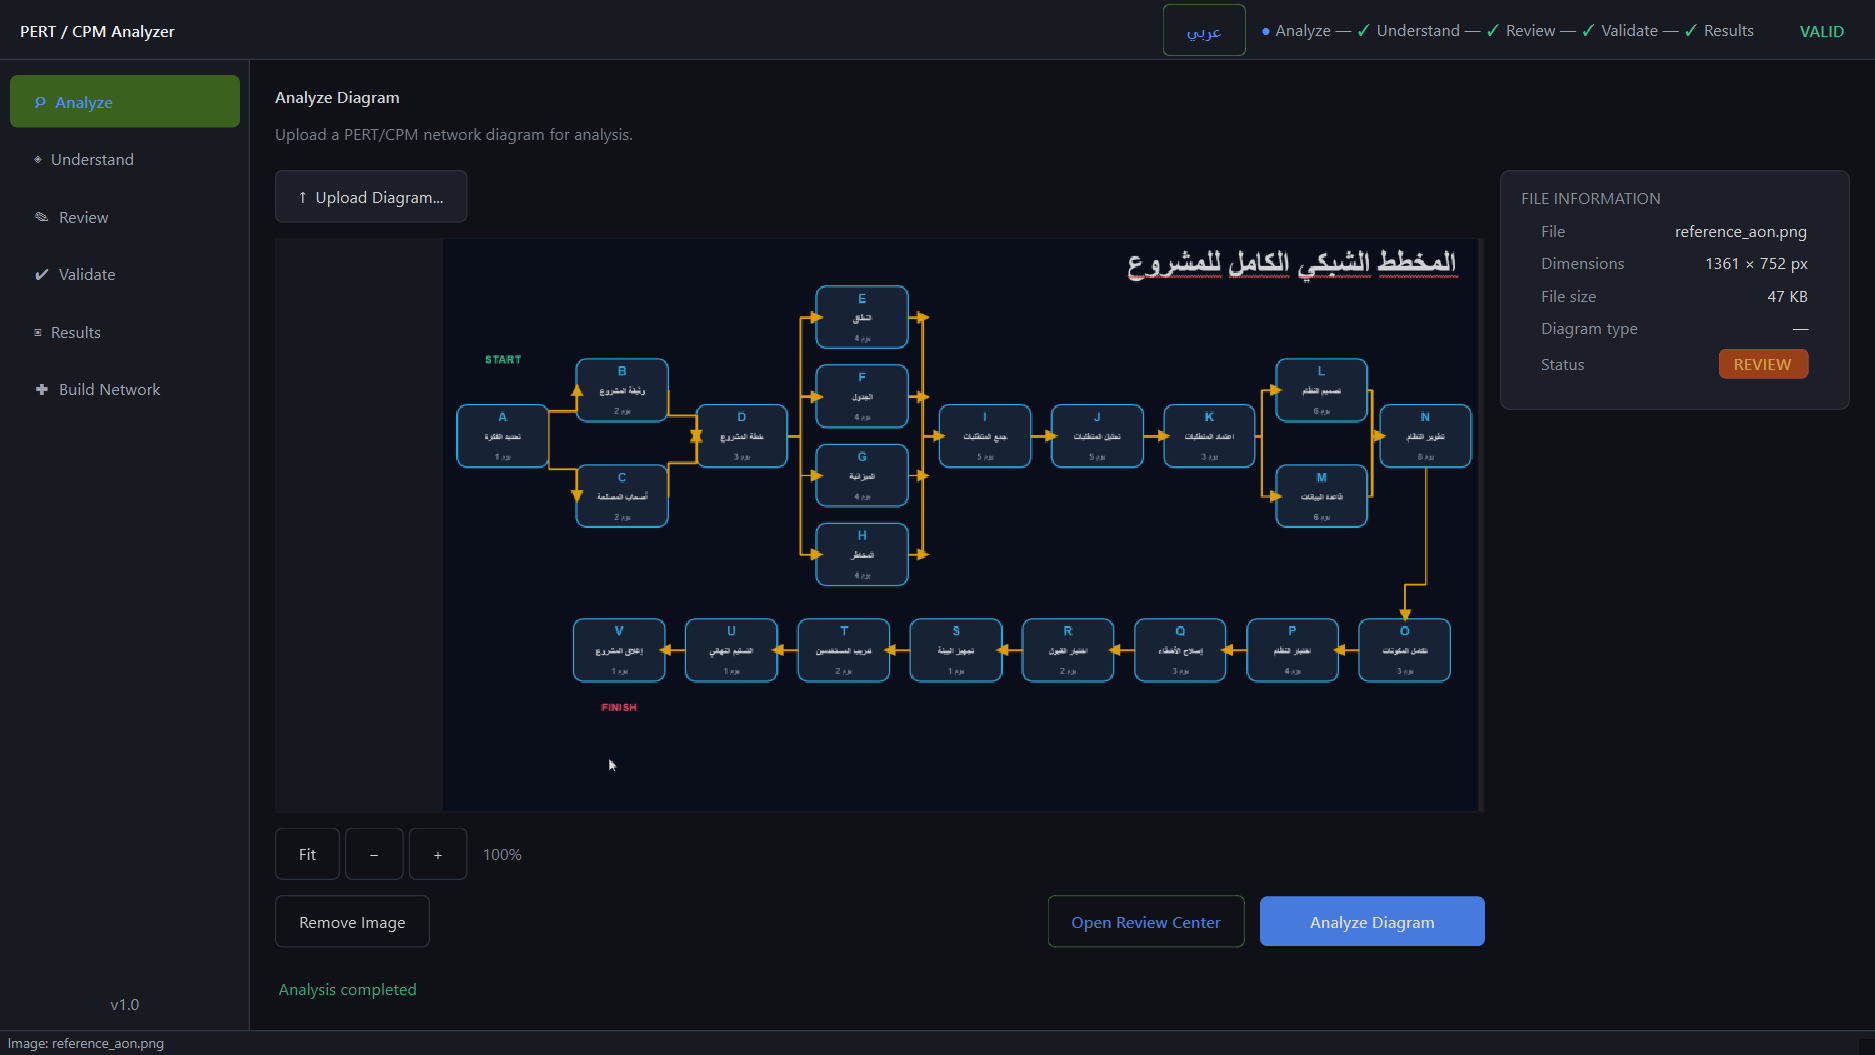
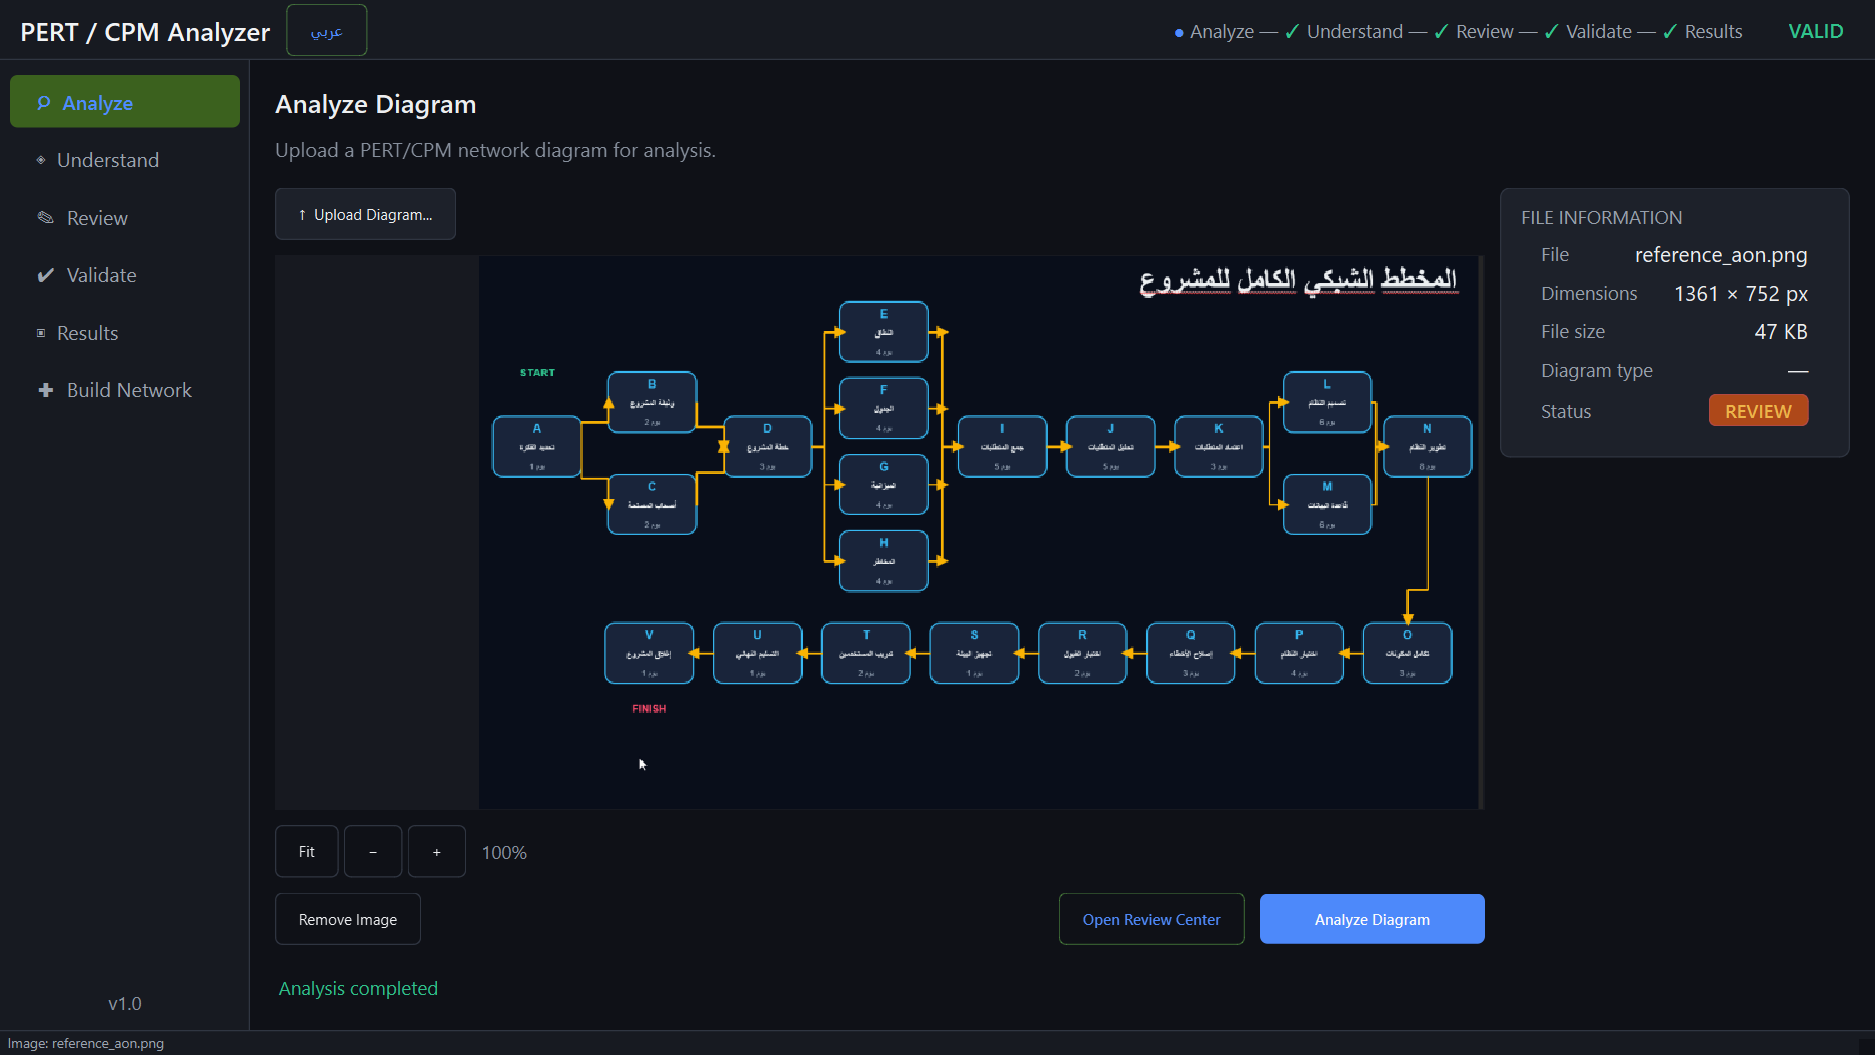
batch 3: restore typography hierarchy (drop global 13px), KPI/health sizes, kicker contrast, localize button to header left

diff --git a/pert_analyzer/gui/results/overview.py b/pert_analyzer/gui/results/overview.py
@@ -41,6 +41,7 @@ from pert_analyzer.gui.themes.palette import (
 )
 from pert_analyzer.gui.themes.spacing import RADIUS_LG, RADIUS_SM
 from pert_analyzer.gui.themes.typography import (
+    BODY_SMALL_FONT,
     KPI_FONT,
     LABEL_FONT,
     MUTED_FONT,
@@ -70,7 +71,7 @@ class KpiCard(QFrame):
         super().__init__(parent)
         self.setObjectName("overviewKpiCard")
         self.setMinimumWidth(0)
-        self.setMinimumHeight(118)
+        self.setMinimumHeight(126)
         self.setSizePolicy(QSizePolicy.Policy.Ignored, QSizePolicy.Policy.Preferred)
         self.setStyleSheet(
             f"QFrame#overviewKpiCard {{ background-color: {SURFACE};"
@@ -103,9 +104,13 @@ class KpiCard(QFrame):
         top.addWidget(self._title_label, stretch=1)
         layout.addLayout(top)
         self._value_label = QLabel("Unavailable")
-        self._value_label.setFont(QFont(KPI_FONT[0], 34, QFont.Weight.Bold))
+        self._value_label.setFont(QFont(KPI_FONT[0], 14, QFont.Weight.Bold))
+        # NOTE: app-level QSS forces font-size 13px on all QWidget subclasses;
+        # an explicit px size in the widget stylesheet is the only way to keep
+        # the big KPI value visible.
         self._value_label.setStyleSheet(
             f"color: {accent}; border: none; background: transparent;"
+            f" font-size: 36px; font-weight: 700;"
         )
         layout.addWidget(self._value_label)
         bottom = QHBoxLayout()
@@ -134,6 +139,7 @@ class KpiCard(QFrame):
         self._value_label.setText(text)
         self._value_label.setStyleSheet(
             f"color: {color}; border: none; background: transparent;"
+            f" font-size: 36px; font-weight: 700;"
         )
 
     def set_note(self, text: str) -> None:
@@ -244,8 +250,8 @@ class OverviewTab(QWidget):
         layout.setContentsMargins(16, 14, 16, 14)
         layout.setSpacing(5)
         kicker_label = QLabel(kicker.upper())
-        kicker_label.setFont(QFont(*MUTED_FONT))
-        kicker_label.setStyleSheet(f"color: {TEXT_MUTED};")
+        kicker_label.setFont(QFont(*BODY_SMALL_FONT))
+        kicker_label.setStyleSheet(f"color: {TEXT_SECONDARY};")
         layout.addWidget(kicker_label)
         title_label = QLabel(title)
         title_label.setFont(QFont(*STATUS_FONT))
@@ -262,8 +268,10 @@ class OverviewTab(QWidget):
         self._health_status.setStyleSheet(f"color: {SUCCESS};")
         header.addWidget(self._health_status)
         self._health_score = QLabel("100%")
-        self._health_score.setFont(QFont(KPI_FONT[0], 32, QFont.Weight.Bold))
-        self._health_score.setStyleSheet(f"color: {SUCCESS};")
+        self._health_score.setFont(QFont(KPI_FONT[0], 14, QFont.Weight.Bold))
+        self._health_score.setStyleSheet(
+            f"color: {SUCCESS}; font-size: 38px; font-weight: 700;"
+        )
         header.addWidget(self._health_score)
         self._health_score_caption = QLabel("All checks passed")
         self._health_score_caption.setFont(QFont(*MUTED_FONT))

diff --git a/pert_analyzer/gui/themes/style.py b/pert_analyzer/gui/themes/style.py
@@ -59,11 +59,13 @@ def _build_stylesheet() -> str:
     """Return the full application QSS built from design-system tokens."""
     return f"""
         /* ── Global defaults ────────────────────────────────── */
+        /* NOTE: no global font-size here — a 13px rule silently overrode
+           every constructor font (titles, display sizes, KPIs) and flattened
+           the whole typography system to a single size. */
         QWidget {{
             background-color: {BG};
             color: {TEXT};
             font-family: '{FONT_FAMILY}', 'Segoe UI', sans-serif;
-            font-size: 13px;
         }}
 
         /* ── Push buttons ───────────────────────────────────── */

diff --git a/pert_analyzer/gui/main_window.py b/pert_analyzer/gui/main_window.py
@@ -157,13 +157,14 @@ class MainWindow(QMainWindow):
         self._header_title.setStyleSheet(f"color: {TEXT}; border: none; background: transparent;")
         hdr_layout.addWidget(self._header_title)
 
-        hdr_layout.addStretch()
-
         self._locale_btn = QPushButton("عربي")
         self._locale_btn.setObjectName("secondary")
         self._locale_btn.setToolTip("Switch interface language and direction")
         self._locale_btn.clicked.connect(self._toggle_language)
         hdr_layout.addWidget(self._locale_btn)
+        hdr_layout.addSpacing(XXL)
+
+        hdr_layout.addStretch()
 
         self._workflow_indicator = QLabel()
         self._workflow_indicator.setFont(QFont(*BODY_SMALL_FONT))
